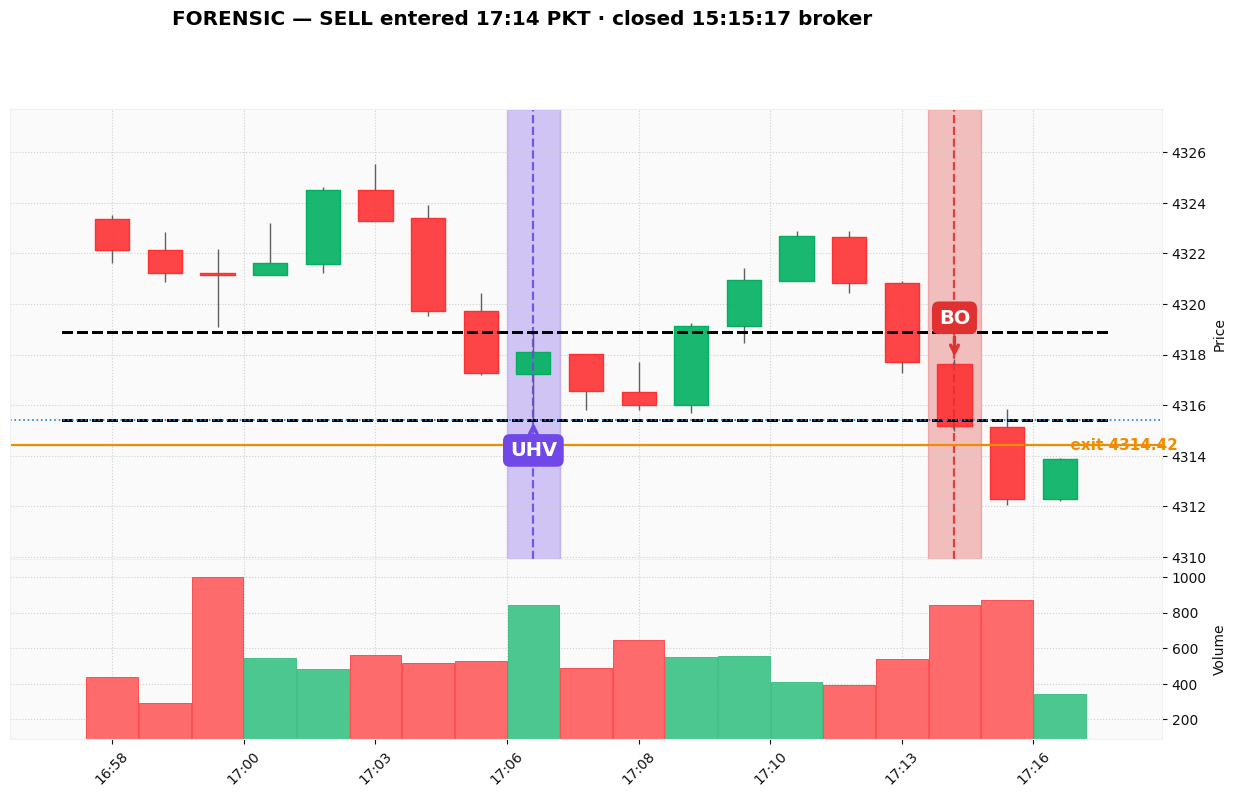
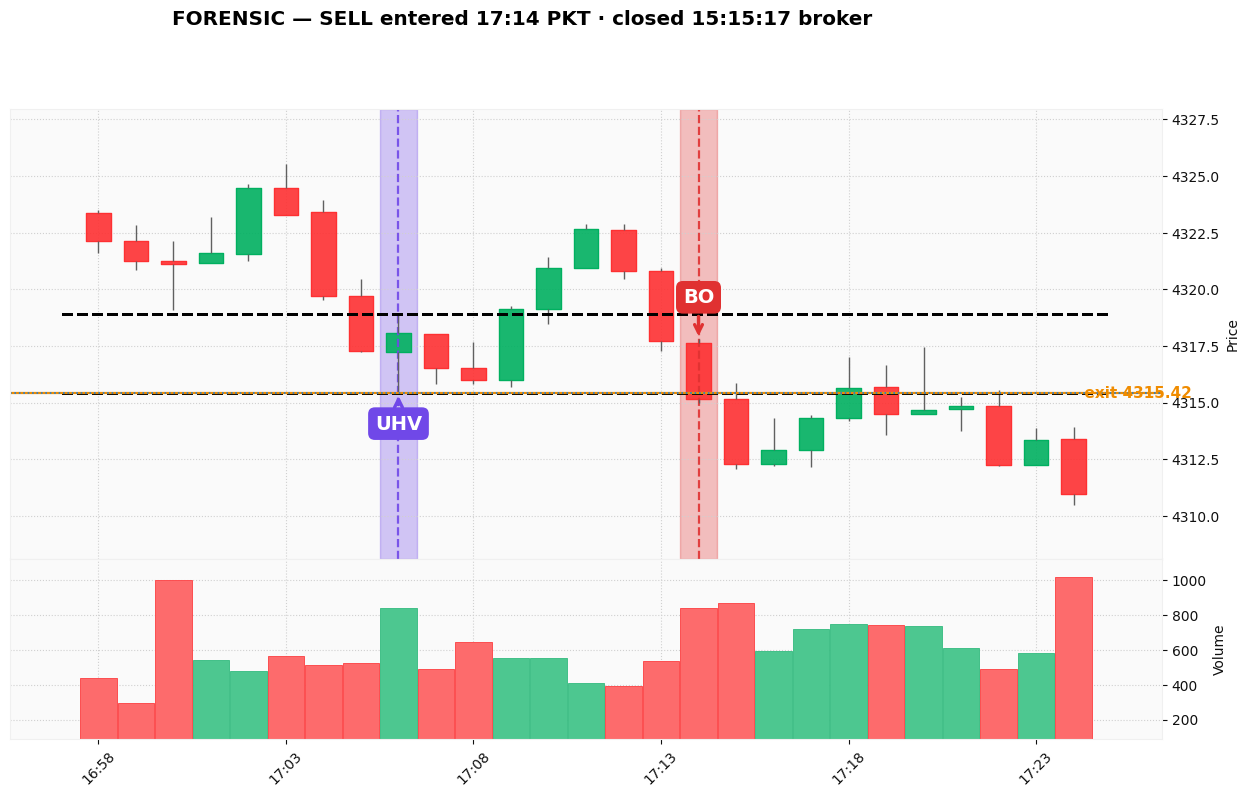
Forensic dead-ends fixed: (1) the GUI set the real exception text and then ALWAYS overwrote it with 'no EA fire line found' — every genuine error was hidden behind a wrong explanation; the truth now reaches the window. (2) draw_trade no longer returns None: with no fire line it still draws the price

diff --git a/monitor/oanda_live_matcher.py b/monitor/oanda_live_matcher.py
@@ -109,14 +109,72 @@ def load_bars():
     return bars
 
 
+def selling_climax_tip(bars, s):
+    """THE REAL-PERSON TIP, PROMOTED TO A DIAMOND (Zee 2026-08-07): a no-supply /
+    no-demand candle in the retracement WITH a heavy counter-trend (selling)
+    background before the UHV. Two independent trials on separate tape lengths:
+    83% WR / +$31.33 and 75% WR / +$21.76 per trade, against a control of the same
+    pattern WITHOUT the background at 43% and 53% (i.e. nothing). The background is
+    the entire signal; the bare no-supply candle is worthless. This diamond also
+    unlocks the STRUCTURAL TARGET — the one subset whose targets actually get hit."""
+    u, i, side = s["u"], s["i"], s["side"]
+    if not any(no_supply_bar(bars, k, side) for k in range(u + 1, i)):
+        return 0
+    look = bars[max(0, u - 20):u]
+    if not look:
+        return 0
+    avgv = sum(b.v for b in look) / len(look)
+    prev = bars[max(0, u - 4):u]
+    heavy = sum(1 for b in prev
+                if (b.is_bear if side == "BUY" else b.is_bull) and b.v >= avgv)
+    return int(heavy >= 2)
+
+
+def structural_target(bars, i, side, entry):
+    """First target = the last CONFIRMED structural swing beyond entry (Zee step 11)."""
+    sw = TE.find_swings(_te_bars(bars), upto=i)
+    if side == "BUY":
+        hs = [x.price for x in sw if x.kind == "H" and x.price > entry + 0.3]
+        return round(hs[-1], 2) if hs else 0.0
+    ls = [x.price for x in sw if x.kind == "L" and x.price < entry - 0.3]
+    return round(ls[-1], 2) if ls else 0.0
+
+
+def diamonds_for(bars, s):
+    """The laws of conviction, counted on a LAWFUL completed setup (2026-08-07,
+    Zee: 'reconnect the multiplier to the lawful path'). Diamonds never gate — they
+    buy CLICKS: 0-1 diamond -> 1 click, 2 -> 2 clicks, 3+ -> 3 clicks, 0.10 each."""
+    u, i = s["u"], s["i"]
+    side = s["side"]
+    d = 0
+    d += int(swept(bars, u, i, side))                      # Law 1 — the sweep
+    closed = bars[:i]
+    if len(closed) >= 6:
+        e5 = _ema5([b.c for b in closed[-40:]])
+        lc = closed[-1]
+        d += int((lc.is_bull and lc.c > e5 + 0.10) if side == "BUY"
+                 else (lc.is_bear and lc.c < e5 - 0.10))   # Law 3 — EMA-5 close
+    bk = bars[i]
+    rng = max(bk.h - bk.l, 1e-9)
+    wick = (bk.h - max(bk.o, bk.c)) / rng if side == "BUY" else (min(bk.o, bk.c) - bk.l) / rng
+    d += int(wick <= 0.25 and s["b_vol"] < s["uhv_vol"])   # Law 5 — wick & volume
+    d += selling_climax_tip(bars, s)                       # THE TIP — promoted 08-07
+    return d
+
+
+def clicks_for(d):
+    return 1 if d <= 1 else (2 if d == 2 else 3)
+
+
 def write_signal(seq, s, lots):
     # id = epoch seconds: MONOTONIC across restarts. A plain counter reset to 1 on
     # every restart while the EA's g_last_id stayed high -> signals silently dropped
     # (and the reverse re-fired old ones). ts feeds the EA's 180s staleness guard.
     now = int(time.time())
-    body = ('{"id":%d,"side":"%s","entry":%.2f,"sl":%.2f,"lots":%.2f,"ts":%d,"time":"%s"}'
-            % (now, s["side"], s["entry"], s["sl"], lots, now,
-               s["open_t"].strftime("%Y-%m-%d %H:%M")))
+    body = ('{"id":%d,"side":"%s","entry":%.2f,"sl":%.2f,"lots":%.2f,"clicks":%d,'
+            '"target":%.2f,"ts":%d,"time":"%s"}'
+            % (now, s["side"], s["entry"], s["sl"], lots, s.get("clicks", 1),
+               s.get("target", 0.0), now, s["open_t"].strftime("%Y-%m-%d %H:%M")))
     SIGNAL.write_text(body, encoding="ascii")
     with LOG.open("a", encoding="utf-8") as fh:
         fh.write(json.dumps({"seq": seq, "id": now, "side": s["side"], "entry": s["entry"],
@@ -675,12 +733,22 @@ def main():
                         continue
                     seq += 1
                     lots = min(feb11_lots(bars, s), RISK_CAP)
+                    _d = diamonds_for(bars, s)
+                    s["clicks"] = clicks_for(_d)
+                    _tip = selling_climax_tip(bars, s)
+                    if _tip:
+                        s["clicks"] = 3                    # full conviction
+                        s["target"] = structural_target(bars, s["i"], s["side"], s["entry"])
                     if night_window():
                         print(f"[oanda_matcher] {s['side']} @{s['entry']} skipped — "
                               f"night gate (21:30-01:00 broker rests)")
                         continue
                     if stretch_of(bars, s["entry"], s["side"]) > STRETCH_PT                             or exhausted(bars, s["side"]):
                         lots = 0.10                # stretch/exhaustion humility
+                    print(f"[oanda_matcher] {'*' * _d or 'no'} diamond(s)"
+                          f"{' [TIP: selling-climax]' if _tip else ''} -> "
+                          f"{s['clicks']} click(s) of {lots:.2f}"
+                          f"{f' target {s.get(chr(34)+chr(34)) or s.get(_x)}' if False else ''}")
                     write_signal(seq, s, lots)
                     print(f"[oanda_matcher] SIGNAL #{seq} {s['side']} @{s['entry']} "
                           f"lots={lots:.2f} ({s['open_t'].strftime('%H:%M')}UTC)")

diff --git a/monitor/forensic_chart.py b/monitor/forensic_chart.py
@@ -224,8 +224,30 @@ def resolve_trade(broker_ts, side):
 def draw_trade(broker_ts, side, exit_px, out=None):
     """Render the forensic chart for one fill; returns the PNG path (or None)."""
     r = resolve_trade(broker_ts, side)
-    if not r or r["lamp"] is None:
-        return None
+    if not r:
+        # no fire line at all: still draw the price window around the close so the
+        # trade can be inspected (Zee 2026-08-07 — a dead end is worse than a chart)
+        rows0 = load()
+        ct = datetime.strptime(broker_ts, "%Y.%m.%d %H:%M:%S") - timedelta(hours=3)
+        win0 = [x for x in rows0 if abs((x[0] - ct).total_seconds()) <= 1500]
+        if len(win0) < 8:
+            return None
+        idx0 = pd.DatetimeIndex([x[0] + timedelta(hours=5) for x in win0])
+        df0 = pd.DataFrame({"Open": [x[1] for x in win0], "High": [x[2] for x in win0],
+                            "Low": [x[3] for x in win0], "Close": [x[4] for x in win0],
+                            "Volume": [x[5] for x in win0]}, index=idx0)
+        st0 = mpf.make_mpf_style(base_mpf_style="yahoo", gridstyle=":")
+        fig0, ax0 = mpf.plot(df0, type="candle", style=st0, volume=True, figsize=(16, 9),
+                             returnfig=True,
+                             title=f"{side} closed {broker_ts[11:]} broker — no EA fire "
+                                   f"line in the logs, so no UHV/trigger lines to draw")
+        if exit_px:
+            ax0[0].axhline(exit_px, color="#f08c00", lw=1.6)
+        out2 = Path(__file__).parent / "setup_labels" / f"forensic_{broker_ts[11:].replace(':','')}.png"
+        fig0.savefig(str(out2), dpi=100, bbox_inches="tight"); plt.close(fig0)
+        return out2
+    if r["lamp"] is None:
+        r["lamp"] = exit_px          # last resort: anchor the chart on the exit
     rows = load()
     e_utc = r["entry_utc"]
     u_utc = r["uhv_utc"] or (e_utc - timedelta(minutes=10))

diff --git a/gui/camel_gui.py b/gui/camel_gui.py
@@ -245,19 +245,24 @@ class Cockpit:
         lbl.pack(padx=20, pady=20)
 
         def work():
+            # 2026-08-07: the old version set an error message and then ALWAYS
+            # overwrote it with "no EA fire line found" — every real exception was
+            # hidden behind a wrong explanation. Now the truth reaches the window.
+            import traceback
             try:
                 sys.path.insert(0, str(Path(TE.__file__).parent))
                 import forensic_chart as FC
                 import importlib; importlib.reload(FC)
                 p = FC.draw_trade(ts, side, exit_px)
-            except Exception as ex:
-                p = None
-                self.root.after(0, lambda: lbl.config(text=f"could not draw: {ex}"))
+            except Exception:
+                err = traceback.format_exc().strip().splitlines()[-1]
+                self.root.after(0, lambda: lbl.config(text="could not draw: " + err))
+                return
             if p:
                 self.root.after(0, lambda: self._show_png(win, lbl, p))
             else:
                 self.root.after(0, lambda: lbl.config(
-                    text="no EA fire line found for this trade (pre-Ghost era, or logs rotated)"))
+                    text="this trade has no matching EA fire line in the logs"))
         threading.Thread(target=work, daemon=True).start()
 
     def _show_png(self, win, lbl, path):
